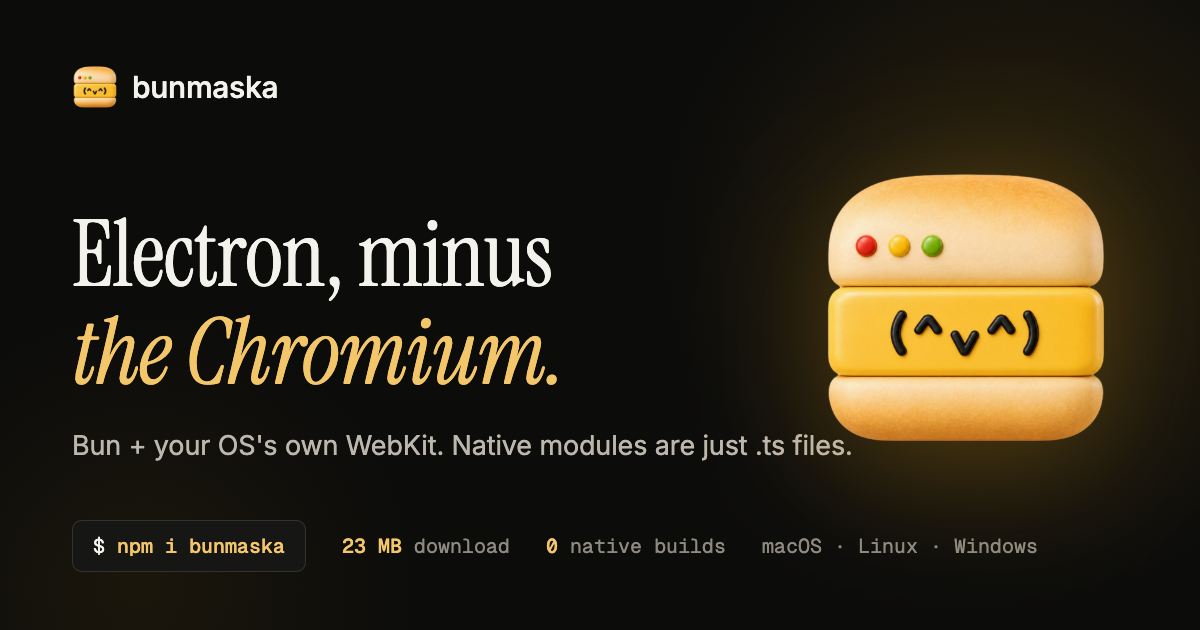
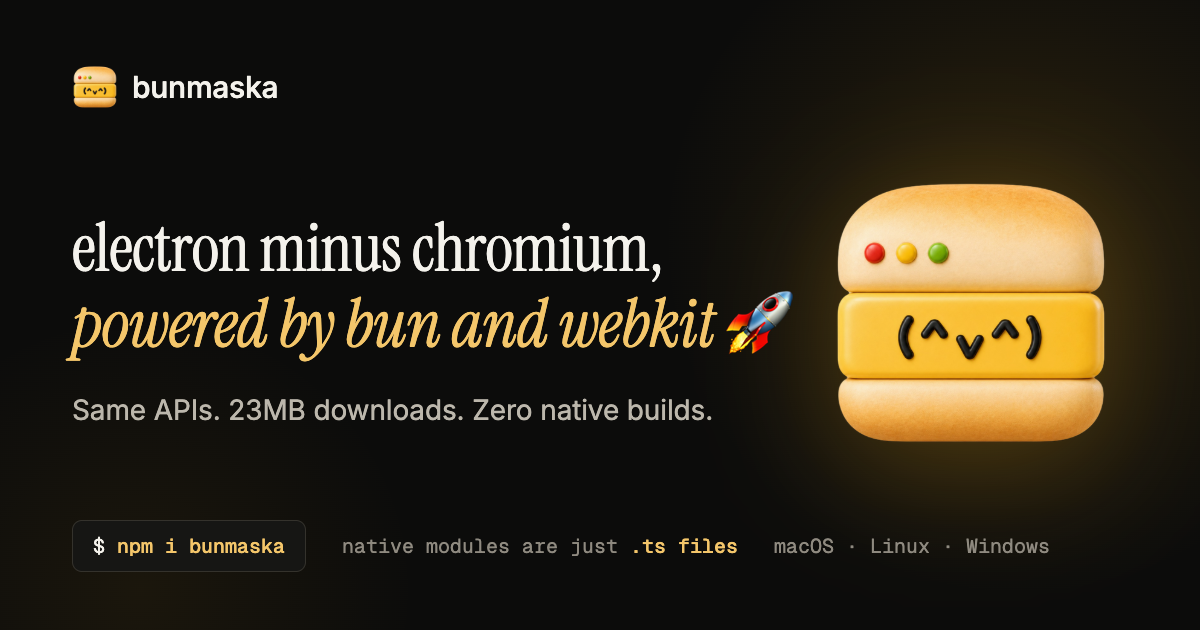
docs: new tagline everywhere - electron minus chromium, powered by bun and webkit

Changed region(s): [[0.0617, 0.2714, 0.925, 0.7238], [0.2775, 0.8444, 0.8633, 0.8746]]

diff --git a/README.md b/README.md
@@ -1,9 +1,9 @@
 <p align="center">
-  <img src="assets/logo.png" width="140" alt="bunmaska - Electron, minus the Chromium">
+  <img src="assets/logo.png" width="140" alt="bunmaska - electron minus chromium, powered by bun and webkit">
 </p>
 
 <p align="center">
-  <em>bunmaska - Electron, minus the Chromium.</em>
+  <em>electron minus chromium, powered by bun and webkit 🚀</em>
 </p>
 
 <p align="center">
@@ -15,7 +15,7 @@
 </p>
 
 <p align="center">
-  <strong>A drop-in Electron replacement on Bun and your OS's own WebKit.</strong><br>
+  <strong>Same APIs. 23MB downloads. Zero native builds.</strong><br>
   <sub>No bundled Chromium. Native modules that are just <code>.ts</code> files. It's alpha, and it says so.</sub>
 </p>
 
@@ -28,7 +28,7 @@
 
 ---
 
-**Bunmaska** is a **drop-in Electron replacement** built on [Bun](https://bun.sh) and your operating system's own WebKit - an **Electron alternative without bundled Chromium**. You keep writing against the APIs you already know - `app`, `BrowserWindow`, `ipcMain`, `ipcRenderer`, `Menu`, `dialog`, `clipboard`, `webContents` - and we swap the heavy parts underneath: the runtime becomes Bun instead of Node, and the renderer becomes whatever WebKit your OS already ships. All of it is pure `bun:ffi` with **zero compiled native code** in the framework.
+**Bunmaska** is a **drop-in Electron replacement** powered by [Bun](https://bun.sh) and WebKit - an **Electron alternative without bundled Chromium**. You keep writing against the APIs you already know - `app`, `BrowserWindow`, `ipcMain`, `ipcRenderer`, `Menu`, `dialog`, `clipboard`, `webContents` - and we swap the heavy parts underneath: the runtime becomes Bun instead of Node, and the renderer becomes WebKit. All of it is pure `bun:ffi` with **zero compiled native code** in the framework.
 
 ## Before / after
 
@@ -111,7 +111,7 @@ Two things that aren't "Electron but smaller" - they're structurally different.
 
 **Why not just Electron?** No bundled Chromium - so your apps are small, and the OS patches the browser engine for you while you sleep. Plus native modules with no build step. If you need the last slice of the API or battle-tested stability *today*, use Electron and check back.
 
-**Does it really have no Chromium?** Correct. macOS and Linux render on the system's own WebKit; Windows ships a from-source WinCairo WebKit - the real WebKit port, never WebView2/Chromium.
+**Does it really have no Chromium?** Correct. Everything renders on WebKit - the system framework on macOS and Linux, a from-source WinCairo build on Windows. Never WebView2/Chromium.
 
 **What breaks?** It's alpha, so: some of the Electron surface isn't implemented yet (it throws a clear error naming the missing module, not a mystery failure at 2 a.m.), and a few APIs differ per platform. We publish exactly which on the [parity matrix](https://bunmaska.org/docs/migrating/parity) - no fantasy, no vapor.
 

diff --git a/website/src/content/docs/introduction.md b/website/src/content/docs/introduction.md
@@ -25,7 +25,7 @@ The result is an app that downloads in **~16-23 MB** instead of 150 MB+, and a n
 
 ## Status
 
-It's **alpha**. It genuinely works on **macOS, Linux, and Windows** today - real windows, the OS's own WebKit rendering (system on macOS/Linux, a from-source WinCairo build bundled on Windows), Electron-style IPC with context isolation, menus, tray, dialogs, clipboard (incl. images), `nativeImage`, `safeStorage`, `powerMonitor`, and a CLI that packages real `.app`/`.deb`/`.exe` distributables (plus `.dmg` with a flag). A few APIs differ per platform - `printToPDF` is macOS-only, `capturePage` is macOS + Linux, and those two plus custom `protocol://` are engine-blocked on Windows - and the [parity matrix](/docs/migrating/parity) is honest about every cell. Some method-level corners are still being filled in.
+It's **alpha**. It genuinely works on **macOS, Linux, and Windows** today - real windows, WebKit rendering on all three (system framework on macOS/Linux, a from-source WinCairo build on Windows), Electron-style IPC with context isolation, menus, tray, dialogs, clipboard (incl. images), `nativeImage`, `safeStorage`, `powerMonitor`, and a CLI that packages real `.app`/`.deb`/`.exe` distributables (plus `.dmg` with a flag). A few APIs differ per platform - `printToPDF` is macOS-only, `capturePage` is macOS + Linux, and those two plus custom `protocol://` are engine-blocked on Windows - and the [parity matrix](/docs/migrating/parity) is honest about every cell. Some method-level corners are still being filled in.
 
 If you're evaluating it for production, read the word "alpha" one more time, then keep reading anyway.
 

diff --git a/website/src/content/docs/installation.md b/website/src/content/docs/installation.md
@@ -7,7 +7,7 @@ order: 3
 ## Requirements
 
 - **[Bun](https://bun.sh) ≥ 1.3.** Bunmaska runs on Bun, not Node. This is not negotiable; it's the foundation.
-- **macOS, Linux, or Windows.** Each drives the OS's own WebKit - never Chromium.
+- **macOS, Linux, or Windows.** Each drives WebKit - never Chromium.
   - macOS uses AppKit + `WKWebView` via `objc_msgSend`.
   - Linux uses GTK 4 + WebKitGTK 6 via `dlopen` (so `libgtk-4` / `libwebkitgtk-6.0` need to be present - they are on most modern desktops).
   - Windows (x64) uses Win32 + a WinCairo `WebKit2.dll` we build from source and bundle (there's no system WebKit on Windows). ARM64 is on the roadmap.

diff --git a/website/src/content/docs/why-bunmaska.md b/website/src/content/docs/why-bunmaska.md
@@ -1,6 +1,6 @@
 ---
 title: Why Bunmaska
-description: "Why a Bun desktop app framework can drop bundled Chromium: the runtime is Bun, the renderer is your OS's own WebKit, the bridge is pure bun:ffi."
+description: "Why a Bun desktop app framework can drop bundled Chromium: the runtime is Bun, the renderer is WebKit, the bridge is pure bun:ffi."
 seoTitle: "How bunmaska works - Bun + system WebKit, pure bun:ffi"
 order: 2
 ---
